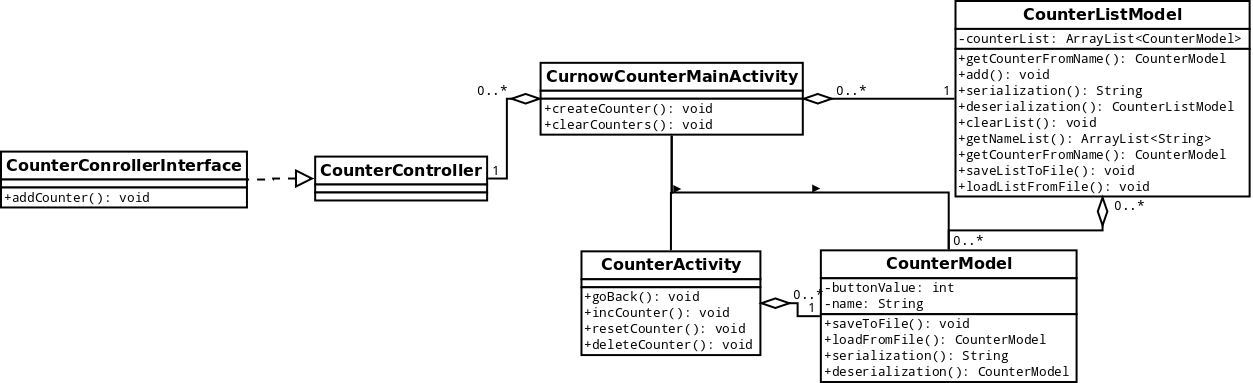
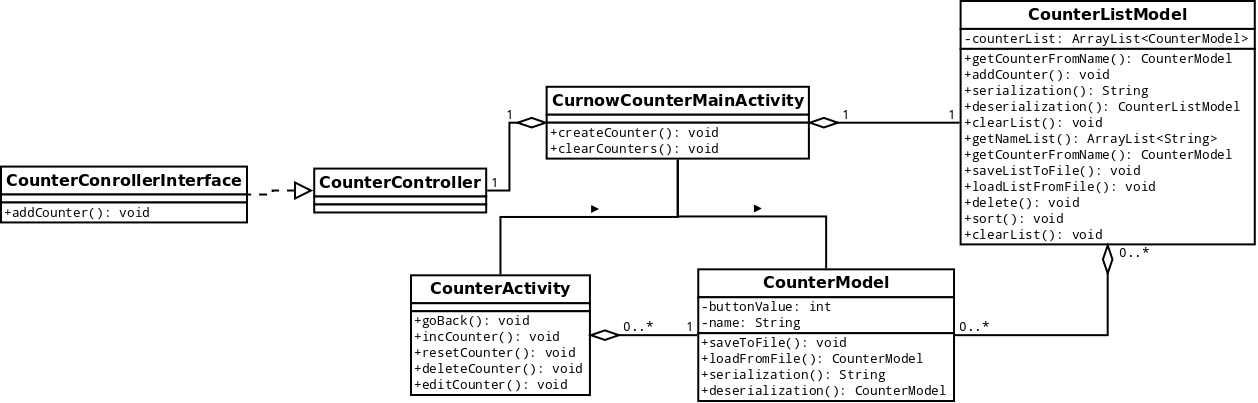
Updated UML

Changed region(s): [[0.0, 0.0, 1.0, 1.0]]

diff --git a/src/ca/ualberta/cs/curnow_counter/CounterListModel.java b/src/ca/ualberta/cs/curnow_counter/CounterListModel.java
@@ -33,6 +33,7 @@ public class CounterListModel {
 		return counterList;
 	}
 	
+	//removes a counter specified by CounterModel title
 	public void delete (String name) {
 		//System.out.println(name);
 		counterList.remove(this.getCounterFromName(name));
